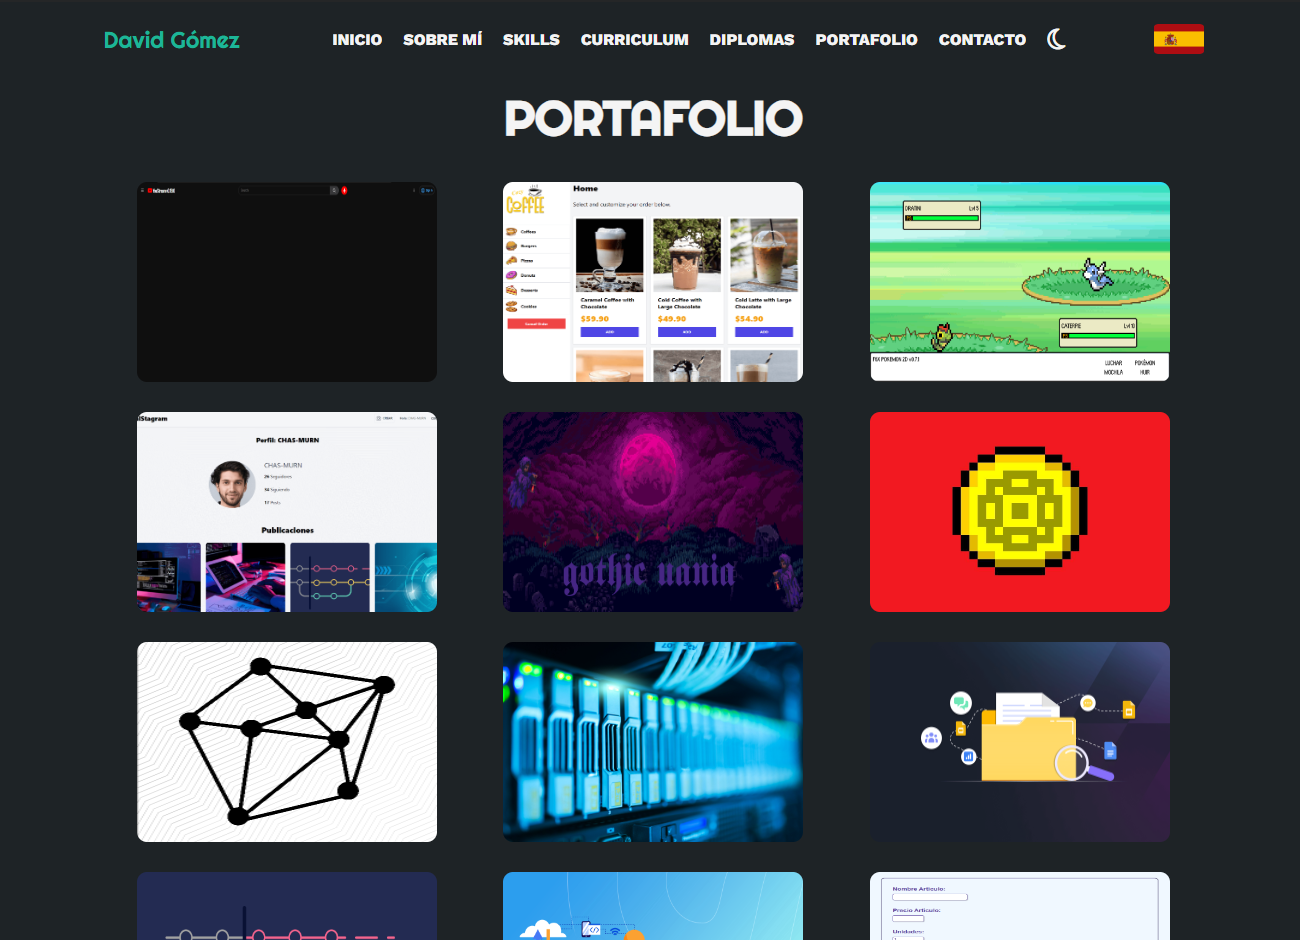
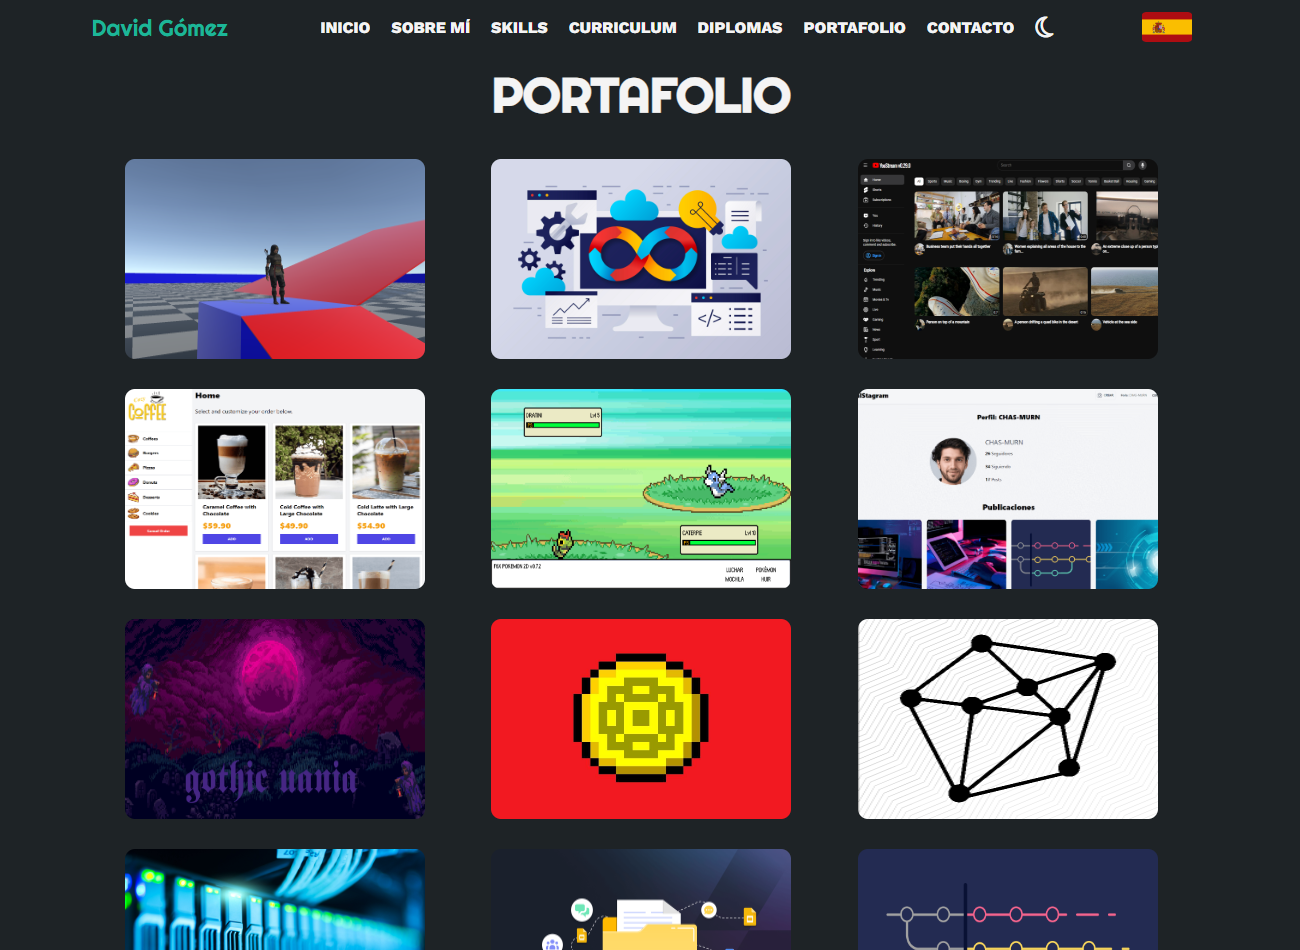
PORTFOLIO 1.5.0
Add Driver's License
Add Console Log System
Add Parkour Climbing System
Update Projects
Update Index.html
Update Translate Files

diff --git a/index.html b/index.html
@@ -155,10 +155,11 @@
           <div class="column">
             <h3 id="t-04"></h3>
             <ul>
-              <li><strong id="t-05"></strong> 20</li>
+              <li><strong id="t-05"></strong> 21</li>
               <li><strong id="t-06"></strong> +34 633 11 85 77</li>
               <li><strong id="t-07"></strong> david.gomez.devops@gmail.com</li>
               <li><strong id="t-08"></strong> ES / FR / EN / PT</li>
+              <li><strong id="t-90"></strong> B</li>
             </ul>
           </div>
           <div class="column">
@@ -610,6 +611,34 @@
         <div class="galery">
           <div class="project">
             <a
+              href="https://github.com/FANTAS666IXI/UNITY-PARKOUR-CLIMBING-SYSTEM"
+              target="_blank"
+              ><img
+                id="t-91"
+                src="resources/img/Projects/Project Parkour Climbing System.png"
+              />
+              <div class="overlay">
+                <h3 id="t-92"></h3>
+                <p>C#</p>
+              </div>
+            </a>
+          </div>
+          <div class="project">
+            <a
+              href="https://github.com/FANTAS666IXI/F6X-CONSOLE-LOG-SYSTEM"
+              target="_blank"
+              ><img
+                id="t-93"
+                src="resources/img/Projects/Project Console Log System.png"
+              />
+              <div class="overlay">
+                <h3 id="t-94"></h3>
+                <p>C#</p>
+              </div>
+            </a>
+          </div>
+          <div class="project">
+            <a
               href="https://github.com/DavidGomezToca/you-stream"
               target="_blank"
               ><img
@@ -618,7 +647,7 @@
               />
               <div class="overlay">
                 <h3 id="t-76"></h3>
-                <p>React</p>
+                <p>React & Typescript</p>
               </div>
             </a>
           </div>

diff --git a/scripts/translate/translate-espanol.js b/scripts/translate/translate-espanol.js
@@ -304,4 +304,19 @@ function translate_espanol() {
 
     let t_89 = document.getElementById("t-89");
     t_89.alt = "Certificado - CESA - Sistemas Microinformáticos y Redes";
+
+    let t_90 = document.getElementById("t-90");
+    t_90.innerHTML = "Carnet :";
+
+    let t_91 = document.getElementById("t-91");
+    t_91.alt = "Proyecto Parkour Climbing System";
+
+    let t_92 = document.getElementById("t-92");
+    t_92.innerHTML = "Parkour Climbing System";
+
+    let t_93 = document.getElementById("t-93");
+    t_93.alt = "Proyecto Console Log System";
+
+    let t_94 = document.getElementById("t-94");
+    t_94.innerHTML = "Console Log System";
 };

diff --git a/scripts/translate/translate-frances.js b/scripts/translate/translate-frances.js
@@ -304,4 +304,19 @@ function translate_frances() {
 
     let t_89 = document.getElementById("t-89");
     t_89.alt = "Certificat - CESA - Systèmes Microinformatiques et Réseaux";
+
+    let t_90 = document.getElementById("t-90");
+    t_90.innerHTML = "Permis :";
+
+    let t_91 = document.getElementById("t-91");
+    t_91.alt = "Projet Parkour Climbing System";
+
+    let t_92 = document.getElementById("t-92");
+    t_92.innerHTML = "Parkour Climbing System";
+
+    let t_93 = document.getElementById("t-93");
+    t_93.alt = "Projet Console Log System";
+
+    let t_94 = document.getElementById("t-94");
+    t_94.innerHTML = "Console Log System";
 };

diff --git a/scripts/translate/translate-ingles.js b/scripts/translate/translate-ingles.js
@@ -304,4 +304,19 @@ function translate_ingles() {
 
     let t_89 = document.getElementById("t-89");
     t_89.alt = "Certificate - CESA - Microinformatics and Network Systems";
+
+    let t_90 = document.getElementById("t-90");
+    t_90.innerHTML = "License :";
+
+    let t_91 = document.getElementById("t-91");
+    t_91.alt = "Project Parkour Climbing System";
+
+    let t_92 = document.getElementById("t-92");
+    t_92.innerHTML = "Parkour Climbing System";
+
+    let t_93 = document.getElementById("t-93");
+    t_93.alt = "Project Console Log System";
+
+    let t_94 = document.getElementById("t-94");
+    t_94.innerHTML = "Console Log System";
 };

diff --git a/scripts/translate/translate-portugues.js b/scripts/translate/translate-portugues.js
@@ -304,4 +304,19 @@ function translate_portugues() {
 
     let t_89 = document.getElementById("t-89");
     t_89.alt = "Certificate - CESA - Sistemas Microinformáticos e Redes";
+
+    let t_90 = document.getElementById("t-90");
+    t_90.innerHTML = "Carta :";
+
+    let t_91 = document.getElementById("t-91");
+    t_91.alt = "Projeto Parkour Climbing System";
+
+    let t_92 = document.getElementById("t-92");
+    t_92.innerHTML = "Parkour Climbing System";
+
+    let t_93 = document.getElementById("t-93");
+    t_93.alt = "Projeto Console Log System";
+
+    let t_94 = document.getElementById("t-94");
+    t_94.innerHTML = "Console Log System";
 };

diff --git a/scripts/main.js b/scripts/main.js
@@ -7,7 +7,7 @@ document.addEventListener('DOMContentLoaded', function () {
     const copyrightElement = document.getElementById("copyright");
     const copyrightText = "COPYRIGHT 2024";
     const portfolioVersionElement = document.getElementById("portfolio-version");
-    const portfolioVersionNumber = "v1.4.0"
+    const portfolioVersionNumber = "v1.5.0"
     const portfolioVersionText = "PORTFOLIO " + portfolioVersionNumber;
     const backToTopButton = document.querySelector("#back-to-top-button");
 

diff --git a/README.md b/README.md
@@ -10,7 +10,7 @@
 
 - **STACK :**
 
-  - **Portfolio** : `1.4.0`
+  - **PORTFOLIO** : `1.5.0`
 
 ---
 
